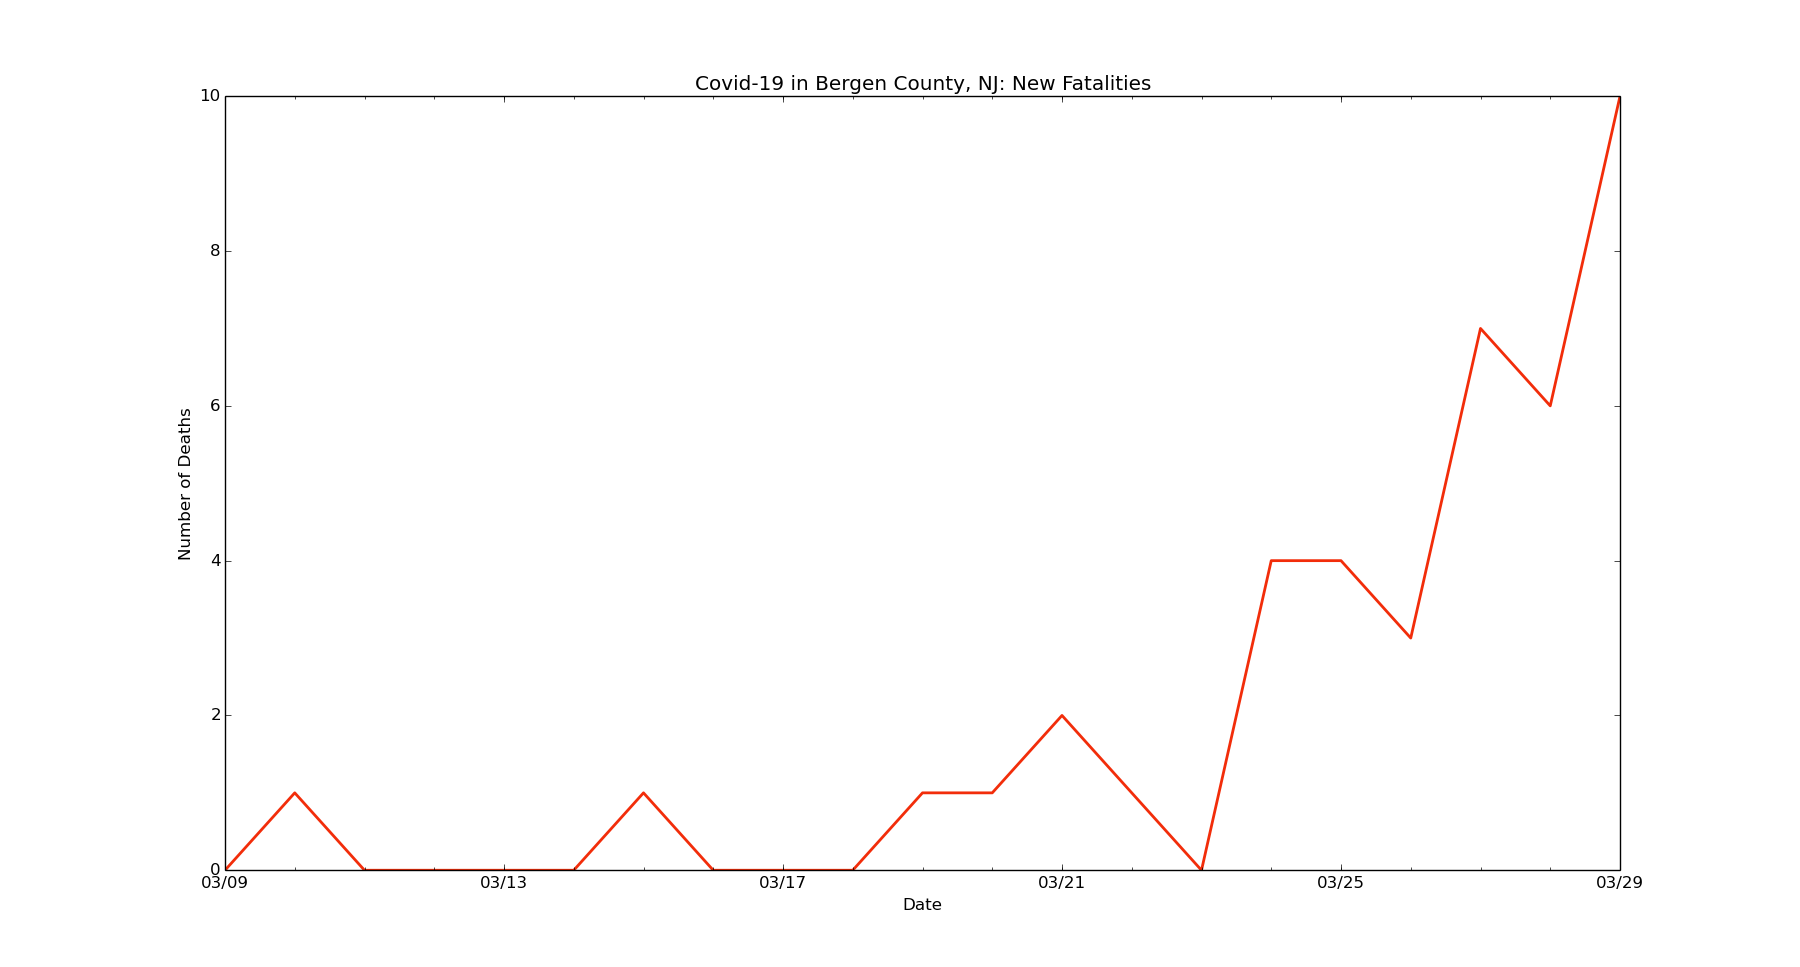
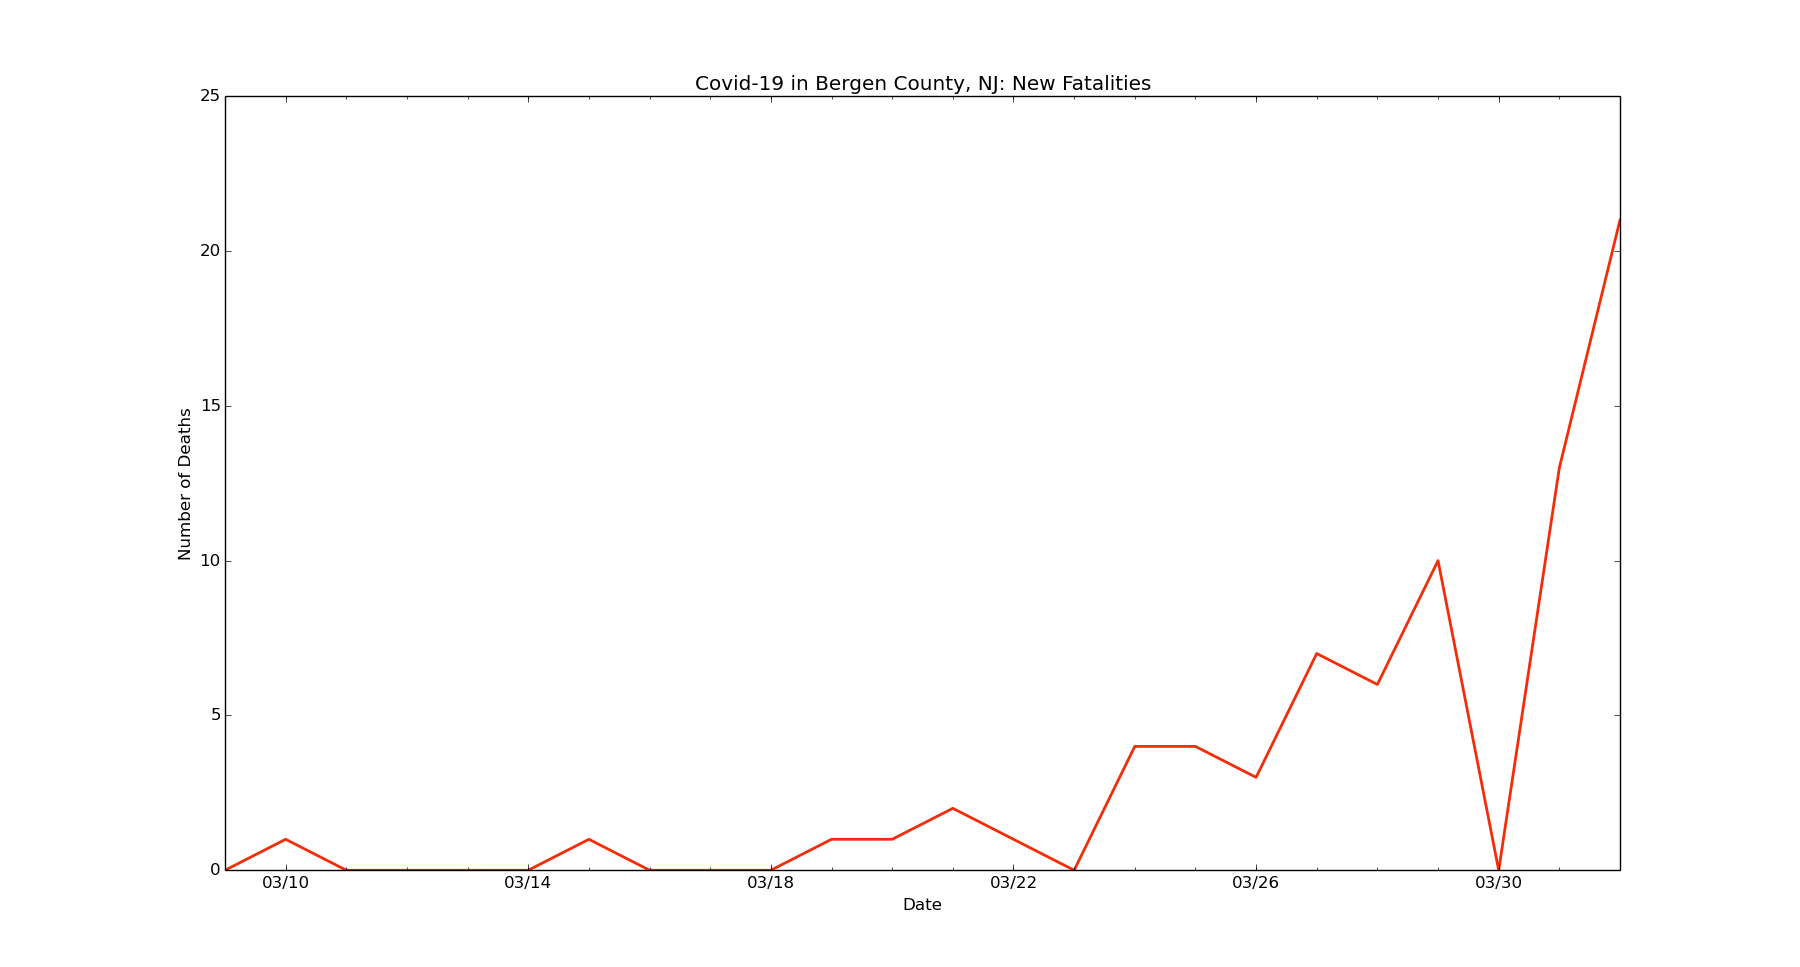
chore: Update data for Bergen County

diff --git a/bergen-county/bergen-new-cases.py b/bergen-county/bergen-new-cases.py
@@ -6,7 +6,7 @@ import matplotlib.dates as mdates
 import matplotlib.ticker as ticker
 from matplotlib.dates import MO, TU, WE, TH, FR, SA, SU
 
-dates = ['3/3/2020', '3/4/2020', '3/5/2020', '3/6/2020', '3/7/2020', '3/8/2020', '3/9/2020', '3/10/2020', '3/11/2020', '3/12/2020', '3/13/2020', '3/14/2020', '3/15/2020', '3/16/2020', '3/17/2020', '3/18/2020', '3/19/2020', '3/20/2020', '3/21/2020', '3/22/2020', '3/23/2020', '3/24/2020', '3/25/2020', '3/26/2020', '3/27/2020', '3/28/2020', '3/29/2020', '3/30/2020', '3/31/2020']
+dates = ['3/3/2020', '3/4/2020', '3/5/2020', '3/6/2020', '3/7/2020', '3/8/2020', '3/9/2020', '3/10/2020', '3/11/2020', '3/12/2020', '3/13/2020', '3/14/2020', '3/15/2020', '3/16/2020', '3/17/2020', '3/18/2020', '3/19/2020', '3/20/2020', '3/21/2020', '3/22/2020', '3/23/2020', '3/24/2020', '3/25/2020', '3/26/2020', '3/27/2020', '3/28/2020', '3/29/2020', '3/30/2020', '3/31/2020', '4/1/2020']
 
 # format dates
 x_values = [dt.datetime.strptime(d, "%m/%d/%Y").date() for d in dates]
@@ -29,7 +29,7 @@ plt.axvline(dt.datetime(2020, 3, 18), linestyle='--', color='orange', linewidth=
 plt.axvline(dt.datetime(2020, 3, 21), color='black', linewidth=2, label='stay at home')
 
 # new cases by day
-new_cases = [0, 1, 1, 1, 0, 1, 1, 2, 4, 2, 2, 10, 7, 10, 44, 27, 81, 55, 114, 94, 152, 76, 172, 349, 299, 327, 337, 313, 427]
+new_cases = [0, 1, 1, 1, 0, 1, 1, 2, 4, 2, 2, 10, 7, 10, 44, 27, 81, 55, 114, 94, 152, 76, 172, 349, 299, 327, 337, 313, 427, 585]
 
 # text labels
 plt.title('Covid-19 in Bergen County, NJ: New Confirmed Diagnoses')

diff --git a/bergen-county/bergen-deaths-new.py b/bergen-county/bergen-deaths-new.py
@@ -6,7 +6,7 @@ import matplotlib.dates as mdates
 import matplotlib.ticker as ticker
 from matplotlib.dates import MO, TU, WE, TH, FR, SA, SU
 
-dates = ['3/9/2020', '3/10/2020', '3/11/2020', '3/12/2020', '3/13/2020', '3/14/2020', '3/15/2020', '3/16/2020', '3/17/2020', '3/18/2020', '3/19/2020', '3/20/2020', '3/21/2020', '3/22/2020', '3/23/2020', '3/24/2020', '3/25/2020', '3/26/2020', '3/27/2020', '3/28/2020', '3/29/2020']
+dates = ['3/9/2020', '3/10/2020', '3/11/2020', '3/12/2020', '3/13/2020', '3/14/2020', '3/15/2020', '3/16/2020', '3/17/2020', '3/18/2020', '3/19/2020', '3/20/2020', '3/21/2020', '3/22/2020', '3/23/2020', '3/24/2020', '3/25/2020', '3/26/2020', '3/27/2020', '3/28/2020', '3/29/2020', '3/30/2020', '3/31/2020', '4/1/2020']
 
 # format dates
 x_values = [datetime.datetime.strptime(d, "%m/%d/%Y").date() for d in dates]
@@ -24,7 +24,7 @@ ax.xaxis.set_minor_locator(mdates.WeekdayLocator(byweekday=(MO, TU, WE, TH, FR, 
 ax.get_yaxis().set_major_formatter(ticker.FuncFormatter(lambda x, pos: format(int(x), ',')))
 
 # new deaths by day
-new_deaths = [0, 1, 0, 0, 0, 0, 1, 0, 0, 0, 1, 1, 2, 1, 0, 4, 4, 3, 7, 6, 10]
+new_deaths = [0, 1, 0, 0, 0, 0, 1, 0, 0, 0, 1, 1, 2, 1, 0, 4, 4, 3, 7, 6, 10, 0, 13, 21]
 
 # text labels
 plt.title('Covid-19 in Bergen County, NJ: New Fatalities')
